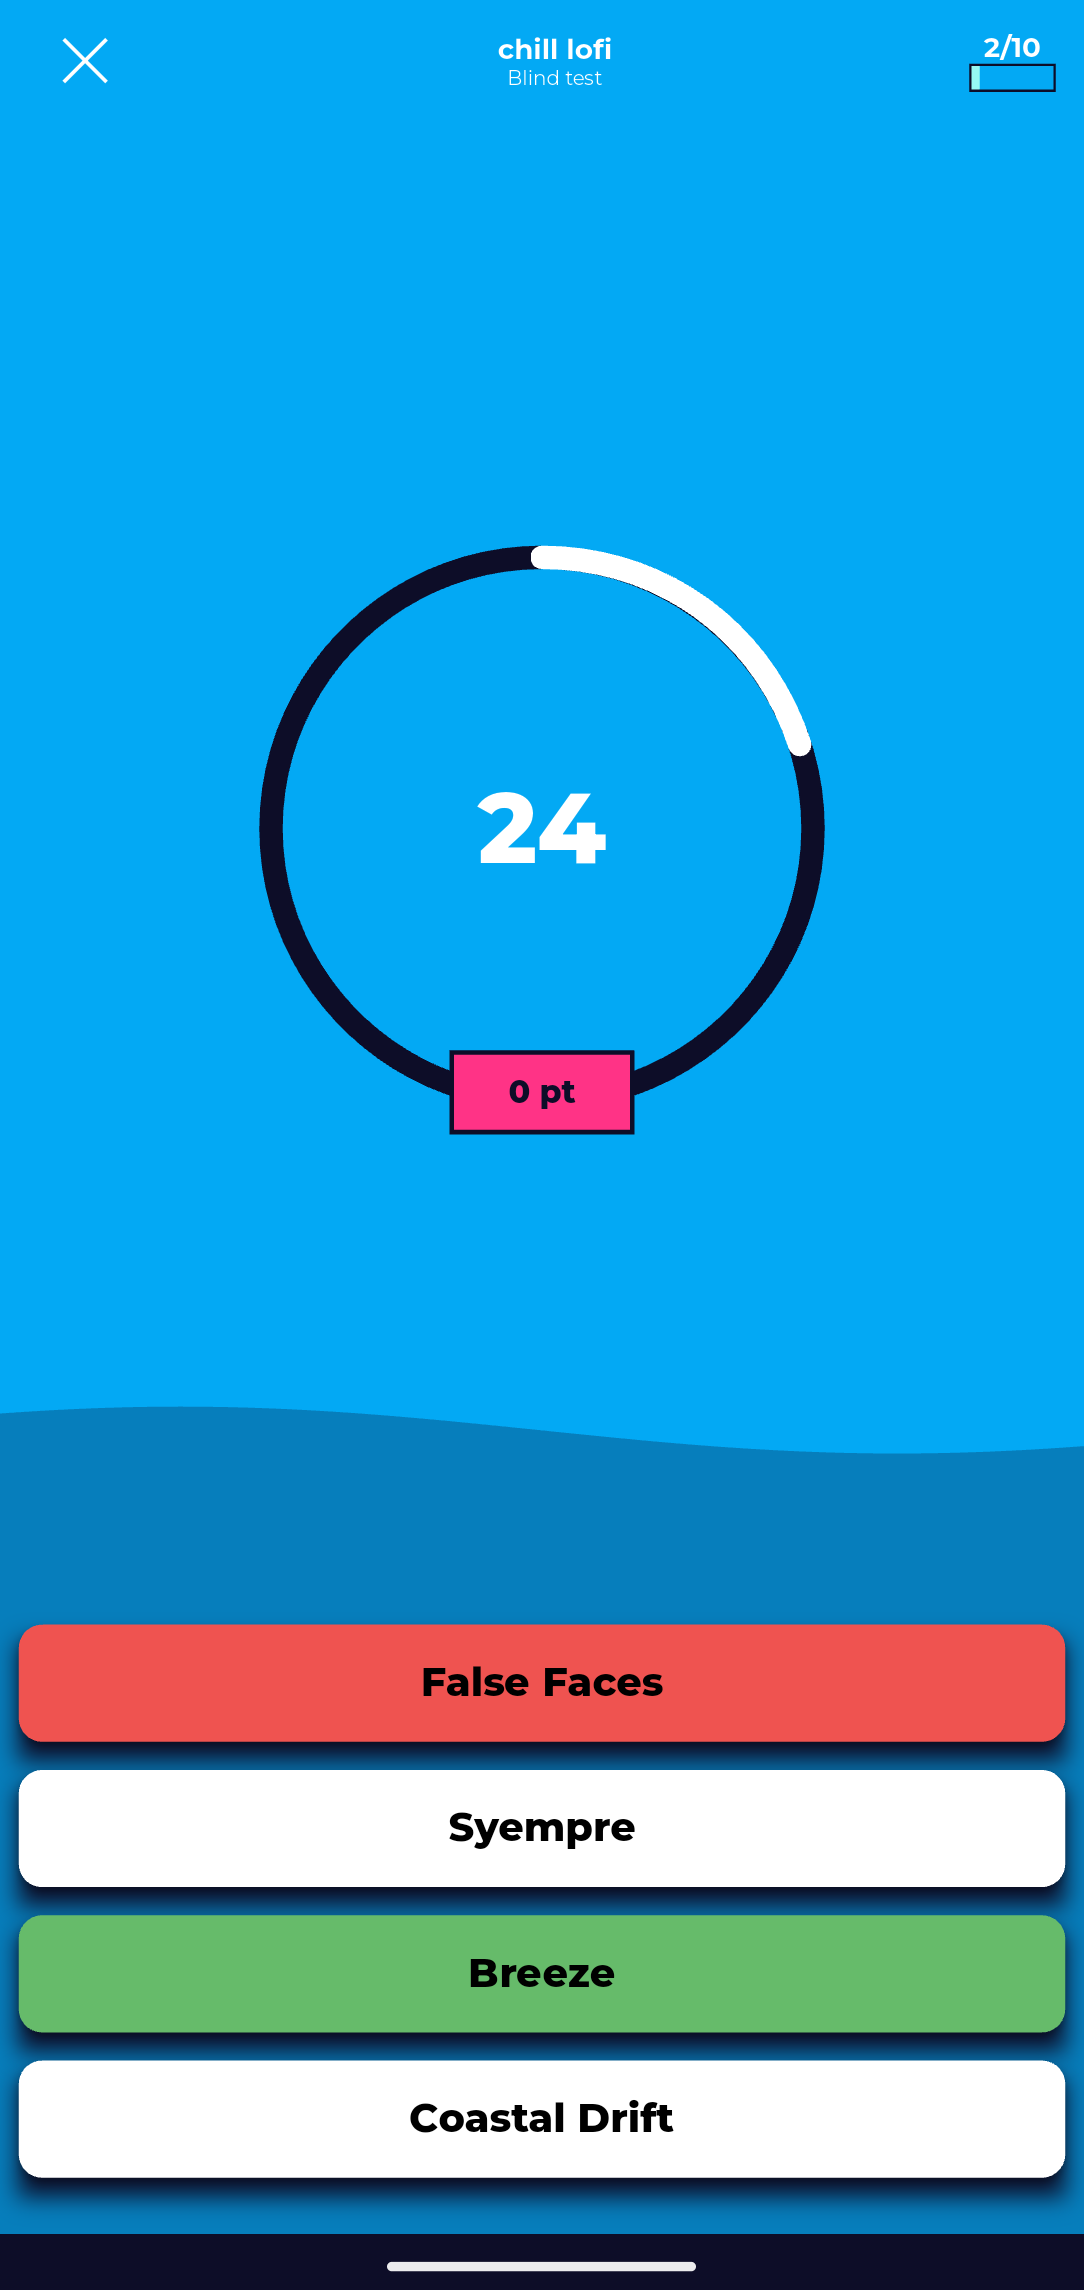
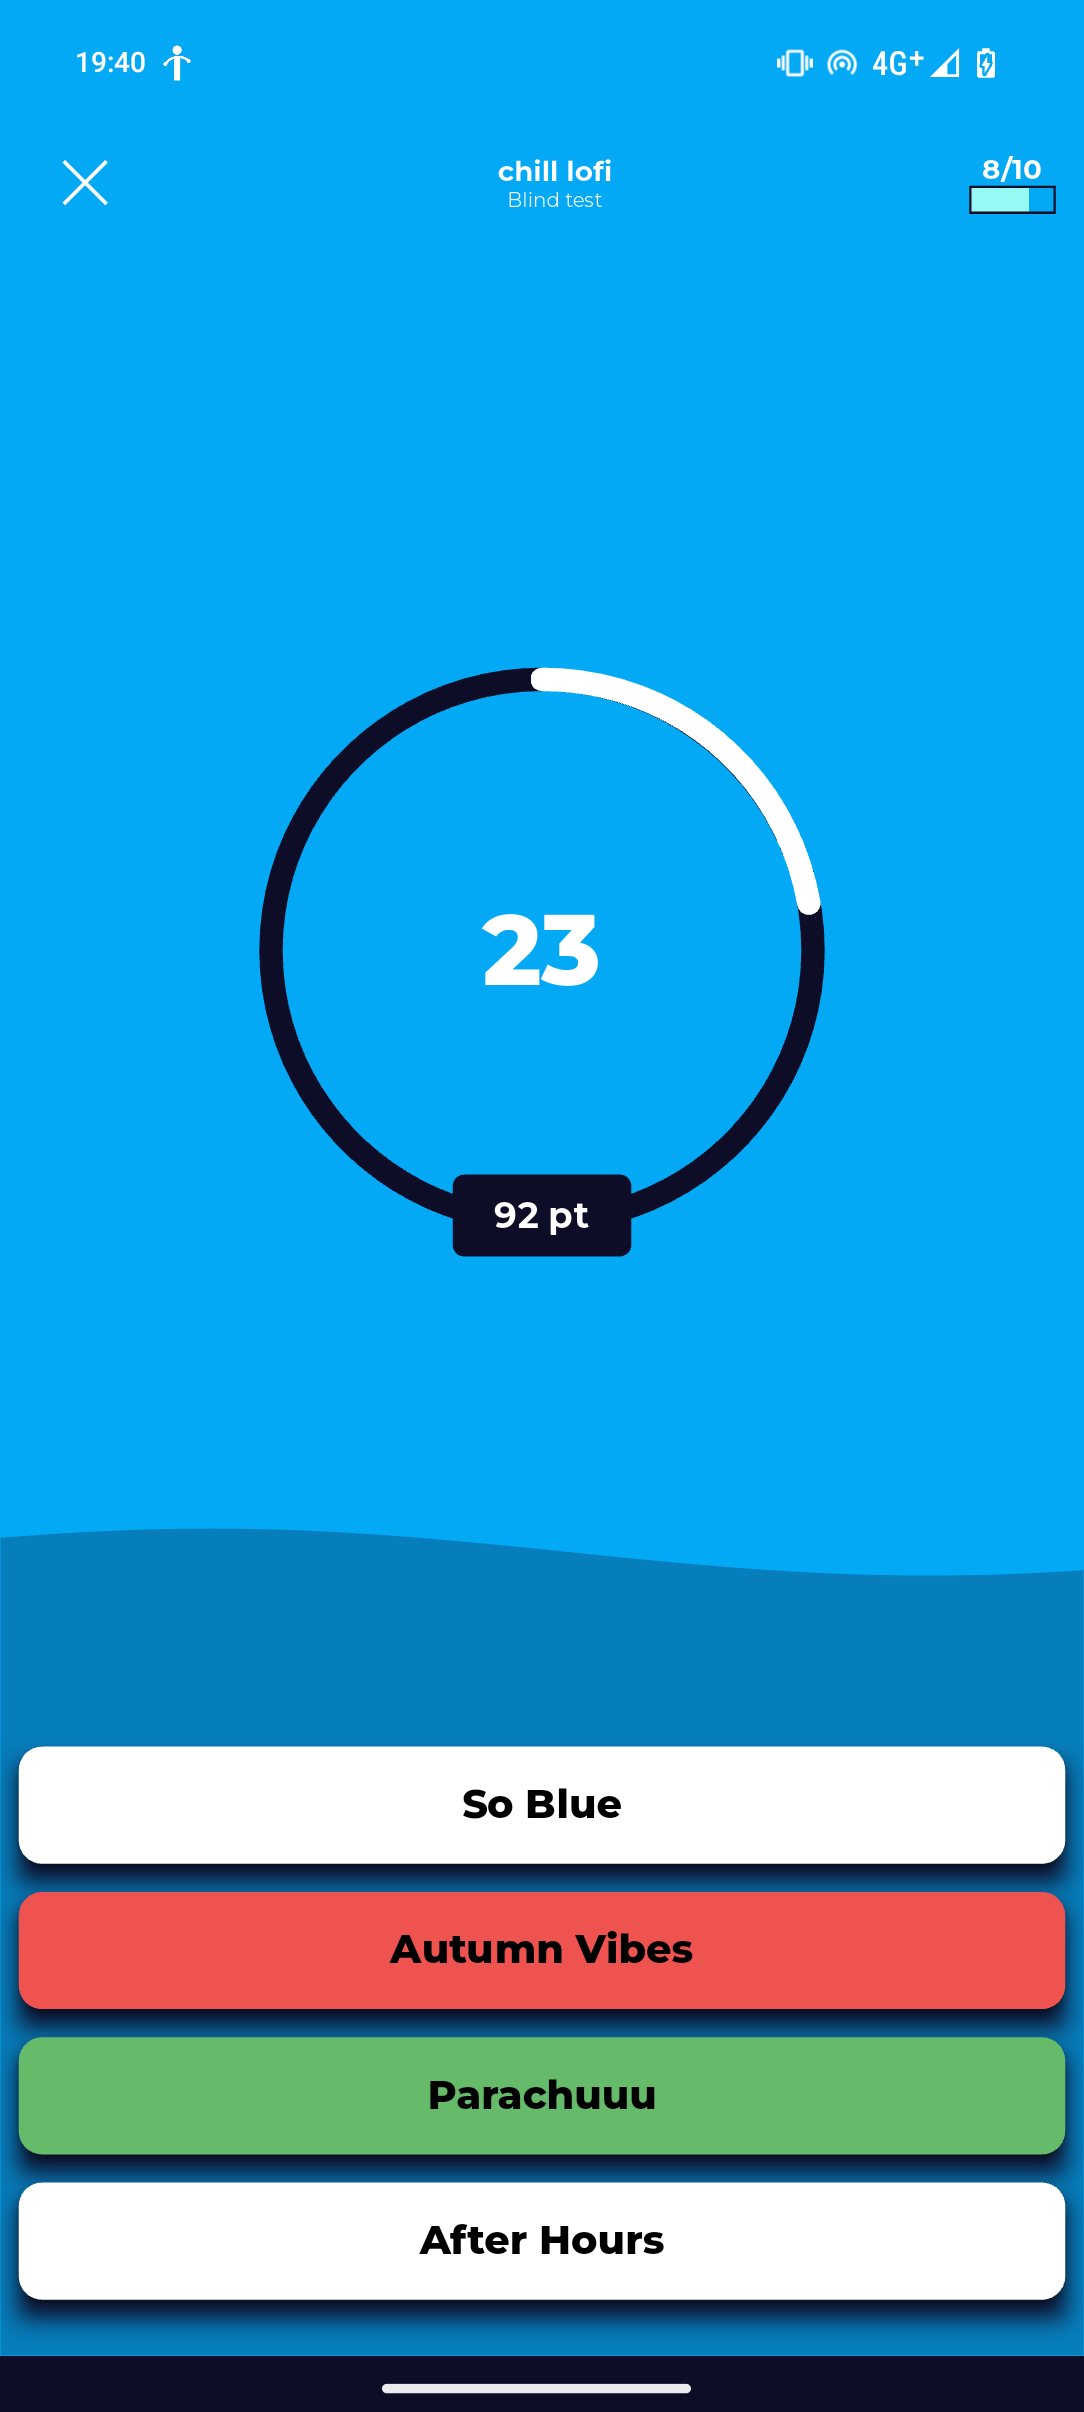
Minor bug fixes : - Player bar behavior - Blind test color scheme - Offline playlist updates

diff --git a/lib/ui/blind_test.dart b/lib/ui/blind_test.dart
@@ -1098,30 +1098,29 @@ class _BlindTestScreenState extends State<BlindTestScreen>
                                       child: Align(
                                         alignment: Alignment.bottomCenter,
                                         child: Container(
-                                          decoration: BoxDecoration(
-                                              color: Color(0xFFFF3386),
-                                              border: Border.all(
-                                                  width: 2,
-                                                  color: Theme.of(context)
-                                                      .scaffoldBackgroundColor)),
-                                          child: SizedBox(
-                                            width: 75,
-                                            height: 32,
-                                            child: Align(
-                                              alignment: Alignment.center,
-                                              child: Text(
-                                                  _blindTest.points.toString() +
-                                                      ' pt',
-                                                  textAlign: TextAlign.center,
-                                                  style: TextStyle(
-                                                      fontWeight:
-                                                          FontWeight.w900,
-                                                      fontSize: 16,
-                                                      color: Theme.of(context)
-                                                          .scaffoldBackgroundColor)),
-                                            ),
-                                          ),
-                                        ),
+                                            padding: EdgeInsets.symmetric(
+                                                vertical: 8, horizontal: 18),
+                                            decoration: BoxDecoration(
+                                                color: Theme.of(context)
+                                                    .scaffoldBackgroundColor,
+                                                borderRadius:
+                                                    BorderRadius.circular(5)),
+                                            child: Text(
+                                              _blindTest.points.toString() +
+                                                  ' pt',
+                                              textAlign: TextAlign.center,
+                                              style: TextStyle(
+                                                  fontWeight: FontWeight.bold,
+                                                  fontFamily: 'MontSerrat',
+                                                  fontSize: 18),
+                                              textHeightBehavior:
+                                                  TextHeightBehavior(
+                                                applyHeightToFirstAscent:
+                                                    false, // Disable height for ascent
+                                                applyHeightToLastDescent:
+                                                    false, // Apply height for descent
+                                              ),
+                                            )),
                                       ),
                                     ),
                                   ],
@@ -1185,30 +1184,29 @@ class _BlindTestScreenState extends State<BlindTestScreen>
                                       child: Align(
                                         alignment: Alignment.bottomCenter,
                                         child: Container(
-                                          decoration: BoxDecoration(
-                                              color: Color(0xFFFF3386),
-                                              border: Border.all(
-                                                  width: 2,
-                                                  color: Theme.of(context)
-                                                      .scaffoldBackgroundColor)),
-                                          child: SizedBox(
-                                            width: 70,
-                                            height: 40,
-                                            child: Align(
-                                              alignment: Alignment.center,
-                                              child: Text(
-                                                  _blindTest.points.toString() +
-                                                      ' pt',
-                                                  textAlign: TextAlign.center,
-                                                  style: TextStyle(
-                                                      fontWeight:
-                                                          FontWeight.w900,
-                                                      fontSize: 16,
-                                                      color: Theme.of(context)
-                                                          .scaffoldBackgroundColor)),
-                                            ),
-                                          ),
-                                        ),
+                                            padding: EdgeInsets.symmetric(
+                                                vertical: 8, horizontal: 18),
+                                            decoration: BoxDecoration(
+                                                color: Theme.of(context)
+                                                    .scaffoldBackgroundColor,
+                                                borderRadius:
+                                                    BorderRadius.circular(5)),
+                                            child: Text(
+                                              _blindTest.points.toString() +
+                                                  ' pt',
+                                              textAlign: TextAlign.center,
+                                              style: TextStyle(
+                                                  fontWeight: FontWeight.bold,
+                                                  fontFamily: 'MontSerrat',
+                                                  fontSize: 18),
+                                              textHeightBehavior:
+                                                  TextHeightBehavior(
+                                                applyHeightToFirstAscent:
+                                                    false, // Disable height for ascent
+                                                applyHeightToLastDescent:
+                                                    false, // Apply height for descent
+                                              ),
+                                            )),
                                       ),
                                     ),
                                   ],
@@ -1624,30 +1622,25 @@ class _ResultsScreenState extends State<ResultsScreen> {
                   padding: EdgeInsets.only(top: 12),
                   child: Center(
                     child: Container(
-                      decoration: BoxDecoration(
-                        color: Color(0xFFFF3386),
-                        border: Border.all(
-                          width: 2,
-                          color: Theme.of(context).scaffoldBackgroundColor,
-                        ),
-                      ),
-                      child: SizedBox(
-                        width: 100,
-                        height: 45,
-                        child: Align(
-                          alignment: Alignment.center,
-                          child: Text(
-                            '${widget.blindTest.points} pt',
-                            textAlign: TextAlign.center,
-                            style: TextStyle(
-                              fontWeight: FontWeight.w900,
-                              fontSize: 20,
-                              color: Theme.of(context).scaffoldBackgroundColor,
-                            ),
+                        padding:
+                            EdgeInsets.symmetric(vertical: 8, horizontal: 18),
+                        decoration: BoxDecoration(
+                            color: Theme.of(context).scaffoldBackgroundColor,
+                            borderRadius: BorderRadius.circular(5)),
+                        child: Text(
+                          '${widget.blindTest.points} pt',
+                          textAlign: TextAlign.center,
+                          style: TextStyle(
+                              fontWeight: FontWeight.bold,
+                              fontFamily: 'MontSerrat',
+                              fontSize: 18),
+                          textHeightBehavior: TextHeightBehavior(
+                            applyHeightToFirstAscent:
+                                false, // Disable height for ascent
+                            applyHeightToLastDescent:
+                                false, // Apply height for descent
                           ),
-                        ),
-                      ),
-                    ),
+                        )),
                   ),
                 ),
                 Padding(

diff --git a/lib/ui/details_screens.dart b/lib/ui/details_screens.dart
@@ -1583,25 +1583,9 @@ class _ArtistDetailsState extends State<ArtistDetails> {
                                                         fontSize: 20.0),
                                                   ),
                                                 ),
-                                                Row(
-                                                  mainAxisSize:
-                                                      MainAxisSize.min,
-                                                  mainAxisAlignment:
-                                                      MainAxisAlignment.end,
-                                                  crossAxisAlignment:
-                                                      CrossAxisAlignment.center,
-                                                  children: [
-                                                    Text(
-                                                        artist.albums.length
-                                                            .toString(),
-                                                        style: TextStyle(
-                                                            color: Settings
-                                                                .secondaryText)),
-                                                    Icon(
-                                                      Icons.chevron_right,
-                                                    )
-                                                  ],
-                                                ),
+                                                Icon(
+                                                  Icons.chevron_right,
+                                                )
                                               ],
                                             )),
                                       ),
@@ -2047,22 +2031,9 @@ class _ArtistDetailsState extends State<ArtistDetails> {
                                               fontSize: 20.0),
                                         ),
                                       ),
-                                      Row(
-                                        mainAxisSize: MainAxisSize.min,
-                                        mainAxisAlignment:
-                                            MainAxisAlignment.end,
-                                        crossAxisAlignment:
-                                            CrossAxisAlignment.center,
-                                        children: [
-                                          Text(artist.albums.length.toString(),
-                                              style: TextStyle(
-                                                  color:
-                                                      Settings.secondaryText)),
-                                          Icon(
-                                            Icons.chevron_right,
-                                          )
-                                        ],
-                                      ),
+                                      Icon(
+                                        Icons.chevron_right,
+                                      )
                                     ],
                                   )),
                             ),
@@ -2278,15 +2249,6 @@ class _DiscographyScreenState extends State<DiscographyScreen> {
                     );
                   },
                 ),
-                ListenableBuilder(
-                    listenable: playerBarState,
-                    builder: (BuildContext context, Widget? child) {
-                      return AnimatedPadding(
-                        duration: Duration(milliseconds: 200),
-                        padding: EdgeInsets.only(
-                            bottom: playerBarState.state ? 80 : 0),
-                      );
-                    }),
               ],
             ),
           );
@@ -2433,12 +2395,10 @@ class _PlaylistDetailsState extends State<PlaylistDetails> {
           });
           return Playlist();
         });
-        if (mounted) {
-          setState(() {
-            playlist = onlinePlaylist;
-            _isLoading = false;
-          });
-        }
+        setState(() {
+          playlist = onlinePlaylist;
+          _isLoading = false;
+        });
       }
     }
 

diff --git a/lib/main.dart b/lib/main.dart
@@ -56,7 +56,7 @@ class _SplashScreenState extends State<SplashScreen> {
   @override
   Widget build(BuildContext context) {
     return Scaffold(
-      backgroundColor: Color(0xFF0D0D28),
+      backgroundColor: Theme.of(context).scaffoldBackgroundColor,
       body: Center(
           child: Lottie.asset('assets/animations/logo_closing.json',
               repeat: true,
@@ -483,6 +483,11 @@ class _MainScreenState extends State<MainScreen>
           // When _initialization is done, render app
           return OrientationBuilder(
             builder: (context, orientation) {
+              SystemChrome.setSystemUIOverlayStyle(SystemUiOverlayStyle(
+                systemNavigationBarColor: orientation == Orientation.portrait
+                    ? settings.themeData.bottomAppBarTheme.color
+                    : Colors.white.withAlpha(30),
+              ));
               return KeyboardListener(
                   focusNode: FocusNode(),
                   onKeyEvent: (event) => _handleKey(

diff --git a/lib/ui/player_bar.dart b/lib/ui/player_bar.dart
@@ -107,9 +107,6 @@ class _PlayerBarState extends State<PlayerBar> {
         } else if ((details.primaryVelocity ?? 0) > 100) {
           // Swiped down => close
           await audioHandler.stop();
-          setState(() {
-            audioHandler.mediaItem.value = null;
-          });
         }
         updateColor();
       },

diff --git a/lib/api/deezer.dart b/lib/api/deezer.dart
@@ -394,6 +394,10 @@ class DeezerAPI {
         [trackId, 0]
       ]
     });
+    if (await downloadManager.checkOffline(
+        playlist: Playlist(id: playlistId))) {
+      downloadManager.updateOfflinePlaylist(Playlist(id: favoritesPlaylistId));
+    }
   }
 
   //Remove track from playlist
